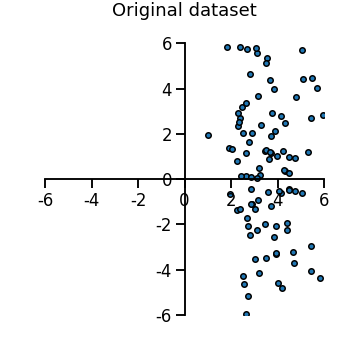
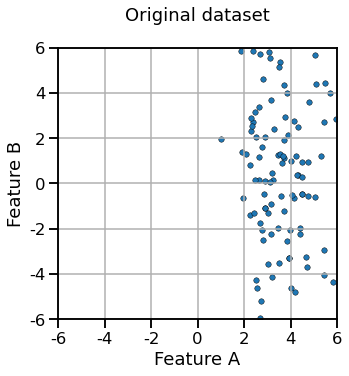
Add axis labels to plot about scaling (#699)

Changed region(s): [[0.086, 0.0917, 1.0, 0.9778], [0.3152, 0.0, 0.7736, 0.0917], [0.0, 0.3667, 0.0573, 0.6111]]

diff --git a/figures/numerical_pipeline_quiz_scaler.py b/figures/numerical_pipeline_quiz_scaler.py
@@ -9,6 +9,7 @@ X[:, 1] *= 3
 
 # %%
 import seaborn as sns
+
 sns.set_context("talk")
 
 # %%
@@ -18,21 +19,20 @@ import matplotlib.ticker as ticker
 ticks = [-6, -4, -2, 0, 2, 4, 6]
 
 _, ax = plt.subplots(figsize=(5, 5))
-plt.scatter(X[:, 0], X[:, 1], s=30, edgecolors="black")
+sns.scatterplot(x=X[:, 0], y=X[:, 1], s=30, edgecolor="black")
 ax.set_xlim(-6, 6)
 ax.set_ylim(-6, 6)
-ax.spines['left'].set_position('center')
-ax.spines['right'].set_color('none')
-ax.spines['bottom'].set_position('center')
-ax.spines['top'].set_color('none')
-ax.xaxis.set_ticks_position('bottom')
-ax.yaxis.set_ticks_position('left')
+ax.set_xlabel("Feature A")
+ax.set_ylabel("Feature B")
+ax.xaxis.set_ticks_position("bottom")
+ax.yaxis.set_ticks_position("left")
 ax.set_xticklabels(ticks)
 ax.xaxis.set_major_locator(ticker.FixedLocator(ticks))
 ax.set_yticklabels(ticks)
 ax.yaxis.set_major_locator(ticker.FixedLocator(ticks))
-ax.set_title("Original dataset\n")
-plt.savefig("numerical_pipeline_quiz_scaler_original.png")
+ax.grid(visible=True)
+ax.set_title("Original dataset\n", loc="center")
+plt.savefig("numerical_pipeline_quiz_scaler_original.png", bbox_inches="tight")
 
 # %%
 from sklearn.preprocessing import StandardScaler
@@ -44,32 +44,35 @@ standard_scaler = StandardScaler().fit(X)
 min_max_scaler = MinMaxScaler().fit(X)
 
 # %%
-fig, axs = plt.subplots(ncols=2, nrows=2, figsize=(10, 10))
-for idx, (ax, data) in enumerate(zip(
-    axs.ravel(),
-    [
-        standard_scaler_mean_only.transform(X),
-        standard_scaler.transform(X),
-        min_max_scaler.transform(X),
-        standard_scaler_scale_only.transform(X),
-    ]
-)):
-    ax.scatter(data[:, 0], data[:, 1], s=30, edgecolors="black")
+fig, axs = plt.subplots(ncols=2, nrows=2, figsize=(12, 10))
+for idx, (ax, data) in enumerate(
+    zip(
+        axs.ravel(),
+        [
+            standard_scaler_mean_only.transform(X),
+            standard_scaler.transform(X),
+            min_max_scaler.transform(X),
+            standard_scaler_scale_only.transform(X),
+        ],
+    )
+):
+    sns.scatterplot(x=data[:, 0], y=data[:, 1], s=30, edgecolor="black", ax=ax)
     ax.set_xlim(-6, 6)
     ax.set_ylim(-6, 6)
-    ax.spines['left'].set_position('center')
-    ax.spines['right'].set_color('none')
-    ax.spines['bottom'].set_position('center')
-    ax.spines['top'].set_color('none')
-    ax.xaxis.set_ticks_position('bottom')
-    ax.yaxis.set_ticks_position('left')
+    ax.set_xlabel("Feature A")
+    ax.set_ylabel("Feature B")
+    ax.xaxis.set_ticks_position("bottom")
+    ax.yaxis.set_ticks_position("left")
     ax.set_xticklabels(ticks)
     ax.xaxis.set_major_locator(ticker.FixedLocator(ticks))
     ax.set_yticklabels(ticks)
     ax.yaxis.set_major_locator(ticker.FixedLocator(ticks))
+    ax.grid(visible=True)
     ax.set_title(f"Preprocessing {'ABCD'[idx]}\n")
 
-fig.subplots_adjust(hspace=0.35)
-plt.savefig("numerical_pipeline_quiz_scaler_preprocessing.png")
+fig.subplots_adjust(hspace=0.6, wspace=0.5)
+plt.savefig(
+    "numerical_pipeline_quiz_scaler_preprocessing.png", bbox_inches="tight"
+)
 
 # %%
